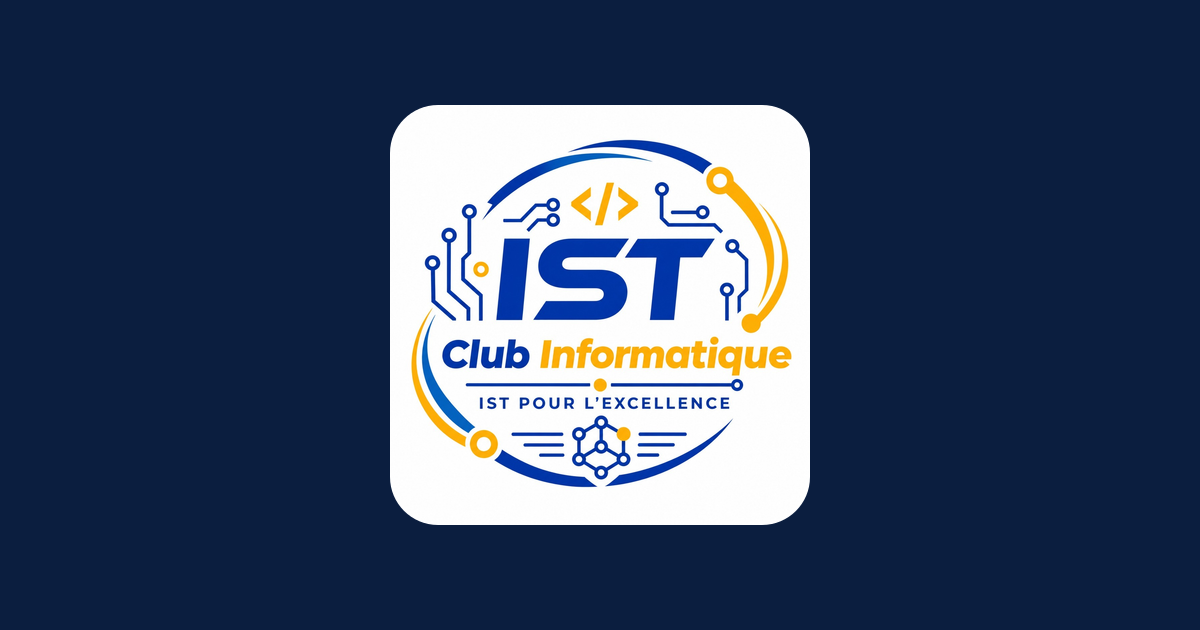
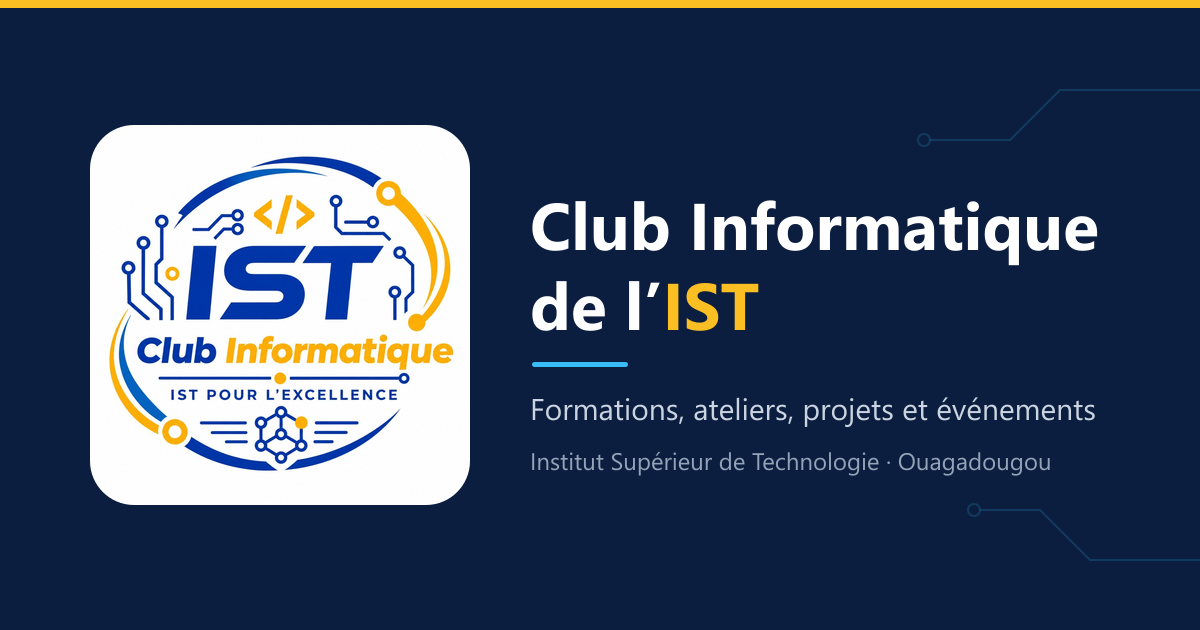
Référencement et aperçus de lien
Adresses absolues dans les pages pré-rendues (canonique, Open Graph, Twitter, données structurées), complétées par Nginx avec l'adresse demandée ; nouvelle image de partage ; titres et descriptions réécrits page par page.

diff --git a/club-informatique-frontend/src/app/core/seo/seo.service.ts b/club-informatique-frontend/src/app/core/seo/seo.service.ts
@@ -7,6 +7,8 @@ import { SITE } from '../config/site';
 export interface PageMeta {
   /** Titre de la page, sans le nom du site. */
   readonly title: string;
+  /** Titre complet, nom du site compris : remplace la composition « titre | nom du site » (page d'accueil). */
+  readonly fullTitle?: string;
   readonly description?: string;
   /** Chemin canonique (commence par « / »). Par défaut : le chemin courant sans paramètres. */
   readonly path?: string;
@@ -15,7 +17,15 @@ export interface PageMeta {
   readonly image?: string;
 }
 
-const DEFAULT_IMAGE = '/img/partage.png';
+/** Image de partage par défaut : 1200 x 630 pixels, format attendu par les réseaux sociaux et les messageries. */
+const DEFAULT_IMAGE = { path: '/img/partage.png', width: '1200', height: '630', alt: `Logo du ${SITE.name}` };
+
+/**
+ * Origine écrite dans les pages pré-rendues quand l'adresse publique du site n'est pas configurée.
+ * Nginx la remplace à l'envoi par l'adresse sous laquelle la page est demandée (`deploiement/nginx.conf.template`) :
+ * les aperçus de lien reçoivent ainsi des adresses absolues, quel que soit le domaine.
+ */
+export const ORIGINE_A_REMPLACER = 'https://origine-du-site.invalid';
 
 /** Métadonnées de page : titre unique, description, URL canonique, Open Graph, Twitter Card, indexation. */
 @Injectable({ providedIn: 'root' })
@@ -23,54 +33,82 @@ export class SeoService {
   private readonly title = inject(Title);
   private readonly meta = inject(Meta);
   private readonly document = inject(DOCUMENT);
-  /** Au pré-rendu, l'adresse publique du site n'est connue que si elle est configurée : sinon aucune adresse absolue n'est écrite. */
-  private readonly sansOrigine = isPlatformServer(inject(PLATFORM_ID)) && !environment.siteUrl;
+  private readonly preRendu = isPlatformServer(inject(PLATFORM_ID));
 
   apply(page: PageMeta): void {
-    const fullTitle = `${page.title} | ${SITE.name}`;
+    const fullTitle = page.fullTitle ?? `${page.title} | ${SITE.name}`;
     this.title.setTitle(fullTitle);
 
     this.setName('description', page.description);
-    this.setName('robots', page.noindex ? 'noindex, nofollow' : 'index, follow');
+    this.setName('robots', page.noindex ? 'noindex, nofollow' : 'index, follow, max-image-preview:large');
 
     const url = this.absolute(page.path ?? this.document.location.pathname);
-    this.setCanonical(page.noindex || this.sansOrigine ? null : url);
+    this.setCanonical(page.noindex ? null : url);
+
+    const image = page.image ? { path: page.image, width: undefined, height: undefined, alt: page.title } : DEFAULT_IMAGE;
+    const imageUrl = /^https?:\/\//i.test(image.path) ? image.path : this.absolute(image.path);
 
     this.setProperty('og:type', 'website');
     this.setProperty('og:locale', 'fr_FR');
     this.setProperty('og:site_name', SITE.name);
     this.setProperty('og:title', fullTitle);
     this.setProperty('og:description', page.description);
-    this.setProperty('og:url', this.sansOrigine ? undefined : url);
-    this.setProperty('og:image', this.sansOrigine ? undefined : this.absolute(page.image ?? DEFAULT_IMAGE));
+    this.setProperty('og:url', url);
+    this.setProperty('og:image', imageUrl);
+    this.setProperty('og:image:width', image.width);
+    this.setProperty('og:image:height', image.height);
+    this.setProperty('og:image:alt', image.alt);
     this.setName('twitter:card', 'summary_large_image');
     this.setName('twitter:title', fullTitle);
     this.setName('twitter:description', page.description);
+    this.setName('twitter:image', imageUrl);
+    this.setName('twitter:image:alt', image.alt);
   }
 
-  /** Données structurées de l'organisation : informations réelles uniquement. */
+  /** Données structurées de l'organisation et du site : informations réelles uniquement. */
   setOrganizationJsonLd(): void {
     const id = 'ld-organisation';
-    if (this.sansOrigine || this.document.getElementById(id)) return;
+    if (this.document.getElementById(id)) return;
+    const origine = this.origin();
     const script = this.document.createElement('script');
     script.id = id;
     script.type = 'application/ld+json';
     script.textContent = JSON.stringify({
       '@context': 'https://schema.org',
-      '@type': 'Organization',
-      name: SITE.name,
-      email: SITE.email,
-      url: environment.siteUrl || undefined,
-      logo: this.absolute('/icons/icon-512.png'),
-      address: { '@type': 'PostalAddress', addressLocality: SITE.city, addressCountry: 'BF' },
-      sameAs: [SITE.social.linkedin, SITE.social.facebook, SITE.social.tiktok],
+      '@graph': [
+        {
+          '@type': 'Organization',
+          '@id': `${origine}/#organisation`,
+          name: SITE.name,
+          alternateName: SITE.shortName,
+          description: `Club d’étudiants de l’${SITE.institution} (${SITE.city}) consacré à l’informatique : formations, ateliers, projets et événements.`,
+          email: SITE.email,
+          url: `${origine}/`,
+          logo: `${origine}/icons/icon-512.png`,
+          image: `${origine}${DEFAULT_IMAGE.path}`,
+          address: { '@type': 'PostalAddress', addressLocality: SITE.city, addressCountry: 'BF' },
+          sameAs: [SITE.social.linkedin, SITE.social.facebook, SITE.social.tiktok],
+        },
+        {
+          '@type': 'WebSite',
+          '@id': `${origine}/#site`,
+          name: SITE.name,
+          url: `${origine}/`,
+          inLanguage: 'fr',
+          publisher: { '@id': `${origine}/#organisation` },
+        },
+      ],
     });
     this.document.head.appendChild(script);
   }
 
+  private origin(): string {
+    if (environment.siteUrl) return environment.siteUrl;
+    return this.preRendu ? ORIGINE_A_REMPLACER : this.document.location.origin;
+  }
+
   private absolute(path: string): string {
-    const origin = environment.siteUrl || this.document.location.origin;
-    return `${origin}${path.startsWith('/') ? path : `/${path}`}`;
+    return `${this.origin()}${path.startsWith('/') ? path : `/${path}`}`;
   }
 
   private setName(name: string, content: string | undefined): void {

diff --git a/club-informatique-frontend/src/index.html b/club-informatique-frontend/src/index.html
@@ -6,6 +6,16 @@
   <base href="/">
   <meta name="viewport" content="width=device-width, initial-scale=1">
   <meta name="theme-color" content="#070D1E">
+  <meta name="description" content="Club Informatique de l’IST à Ouagadougou : formations, ateliers, projets en équipe et événements pour les étudiants qui veulent pratiquer l’informatique.">
+  <meta property="og:type" content="website">
+  <meta property="og:locale" content="fr_FR">
+  <meta property="og:site_name" content="Club Informatique de l’IST">
+  <meta property="og:title" content="Club Informatique de l’IST">
+  <meta property="og:description" content="Formations, ateliers, projets en équipe et événements pour les étudiants de l’IST qui veulent pratiquer l’informatique.">
+  <meta property="og:image" content="https://origine-du-site.invalid/img/partage.png">
+  <meta property="og:image:width" content="1200">
+  <meta property="og:image:height" content="630">
+  <meta name="twitter:card" content="summary_large_image">
   <script src="theme-init.js"></script>
   <link rel="preload" href="fonts/inter-latin-400-normal.woff2" as="font" type="font/woff2" crossorigin>
   <link rel="preload" href="fonts/poppins-latin-700-normal.woff2" as="font" type="font/woff2" crossorigin>

diff --git a/club-informatique-frontend/src/app/pages/public/formations-pages.ts b/club-informatique-frontend/src/app/pages/public/formations-pages.ts
@@ -121,7 +121,7 @@ export class FormationsListPage {
   protected readonly list = new PagedList<Formation>((query) => this.api.formations(query), 9);
 
   constructor() {
-    inject(SeoService).apply({ title: 'Formations', description: 'Formations et ateliers du Club Informatique de l’IST.', path: '/formations' });
+    inject(SeoService).apply({ title: 'Formations', description: 'Formations et ateliers proposés par le Club Informatique de l’IST : programme, séances et inscription en ligne pour les membres du club.', path: '/formations' });
   }
 }
 
@@ -412,7 +412,7 @@ export class RessourcesPage {
   protected readonly list = new PagedList<Ressource>((query) => this.api.ressourcesPubliques(query), 12);
 
   constructor() {
-    inject(SeoService).apply({ title: 'Ressources', description: 'Ressources pédagogiques publiques du Club Informatique de l’IST.', path: '/ressources' });
+    inject(SeoService).apply({ title: 'Ressources', description: 'Supports de cours et ressources pédagogiques partagés par le Club Informatique de l’IST, consultables librement.', path: '/ressources' });
   }
 
   protected icon(resource: Ressource): IconName {

diff --git a/club-informatique-frontend/src/app/pages/public/about-pages.ts b/club-informatique-frontend/src/app/pages/public/about-pages.ts
@@ -231,8 +231,8 @@ export class PresentationPage {
 
   constructor() {
     inject(SeoService).apply({
-      title: 'Présentation',
-      description: 'Présentation du Club Informatique de l’Institut Supérieur de Technologie de Ouagadougou.',
+      title: 'Qui sommes-nous',
+      description: 'Découvrez le Club Informatique de l’IST à Ouagadougou : ses activités, son fonctionnement et la façon de le rejoindre, quel que soit votre niveau.',
       path: '/presentation',
     });
     this.page.load();
@@ -397,7 +397,7 @@ export class BureauPage {
   );
 
   constructor() {
-    inject(SeoService).apply({ title: 'Bureau du club', description: 'Composition du bureau du Club Informatique de l’IST.', path: '/bureau' });
+    inject(SeoService).apply({ title: 'Bureau du club', description: 'Les membres du bureau du Club Informatique de l’IST, qui organisent les activités du club et accompagnent les projets des étudiants.', path: '/bureau' });
     this.bureau.load();
     inject(DestroyRef).onDestroy(() => this.bureau.destroy());
   }

diff --git a/club-informatique-frontend/src/app/pages/public/projets-pages.ts b/club-informatique-frontend/src/app/pages/public/projets-pages.ts
@@ -130,7 +130,7 @@ export class ProjetsListPage {
   protected readonly categoriesPending = computed(() => this.categoriesState.status() === 'loading');
 
   constructor() {
-    inject(SeoService).apply({ title: 'Projets', description: 'Projets des membres du Club Informatique de l’IST.', path: '/projets' });
+    inject(SeoService).apply({ title: 'Projets', description: 'Les projets menés par les membres du Club Informatique de l’IST : applications, outils et réalisations construites en équipe.', path: '/projets' });
     this.categoriesState.load();
     inject(DestroyRef).onDestroy(() => this.categoriesState.destroy());
   }

diff --git a/club-informatique-frontend/src/app/pages/public/evenements-pages.ts b/club-informatique-frontend/src/app/pages/public/evenements-pages.ts
@@ -116,7 +116,7 @@ export class EvenementsListPage {
   protected readonly others = computed(() => (this.list.page() === 0 ? this.list.items().slice(1) : this.list.items()));
 
   constructor() {
-    inject(SeoService).apply({ title: 'Événements', description: 'Événements à venir du Club Informatique de l’IST.', path: '/evenements' });
+    inject(SeoService).apply({ title: 'Événements', description: 'Ateliers, rencontres et activités à venir du Club Informatique de l’IST à Ouagadougou. Consultez les dates et inscrivez-vous en ligne.', path: '/evenements' });
   }
 
   protected dateRange(event: Evenement): string {

diff --git a/club-informatique-frontend/src/app/pages/public/home-page.ts b/club-informatique-frontend/src/app/pages/public/home-page.ts
@@ -311,7 +311,8 @@ export class HomePage {
     const seo = inject(SeoService);
     seo.apply({
       title: 'Accueil',
-      description: 'Site du Club Informatique de l’Institut Supérieur de Technologie de Ouagadougou : formations, événements, projets et actualités.',
+      fullTitle: 'Club Informatique de l’IST | Formations, projets et événements à Ouagadougou',
+      description: 'Le club des étudiants de l’Institut Supérieur de Technologie qui pratiquent l’informatique : formations, ateliers, projets en équipe et événements.',
       path: '/',
     });
     seo.setOrganizationJsonLd();

diff --git a/club-informatique-frontend/src/app/pages/public/actualites-pages.ts b/club-informatique-frontend/src/app/pages/public/actualites-pages.ts
@@ -126,7 +126,7 @@ export class ActualitesListPage {
   });
 
   constructor() {
-    inject(SeoService).apply({ title: 'Actualités', description: 'Actualités du Club Informatique de l’IST.', path: '/actualites' });
+    inject(SeoService).apply({ title: 'Actualités', description: 'Les dernières nouvelles du Club Informatique de l’IST : annonces, comptes rendus d’activités et informations utiles aux étudiants.', path: '/actualites' });
     this.categoriesState.load();
     inject(DestroyRef).onDestroy(() => this.categoriesState.destroy());
   }

diff --git a/club-informatique-frontend/src/app/pages/public/contact-page.ts b/club-informatique-frontend/src/app/pages/public/contact-page.ts
@@ -266,7 +266,7 @@ export class ContactPage {
   constructor() {
     inject(SeoService).apply({
       title: 'Contact',
-      description: 'Contacter le Club Informatique de l’IST : formulaire, courriel, téléphone et réseaux sociaux.',
+      description: 'Une question, une proposition ou l’envie de rejoindre le club ? Écrivez au Club Informatique de l’IST par formulaire, courriel ou WhatsApp.',
       path: '/contact',
     });
     this.form.controls.consentement.valueChanges.subscribe(() => this.tick.update((n) => n + 1));

diff --git a/club-informatique-frontend/src/app/pages/auth/register-page.ts b/club-informatique-frontend/src/app/pages/auth/register-page.ts
@@ -274,7 +274,7 @@ export class RegisterPage {
   constructor() {
     inject(SeoService).apply({
       title: 'Inscription',
-      description: 'Créez votre compte pour rejoindre le Club Informatique de l’IST.',
+      description: 'Créez votre compte pour participer aux formations, aux événements et aux projets du Club Informatique de l’IST.',
       path: '/inscription',
     });
     this.form.statusChanges.subscribe(() => this.tick.update((n) => n + 1));
